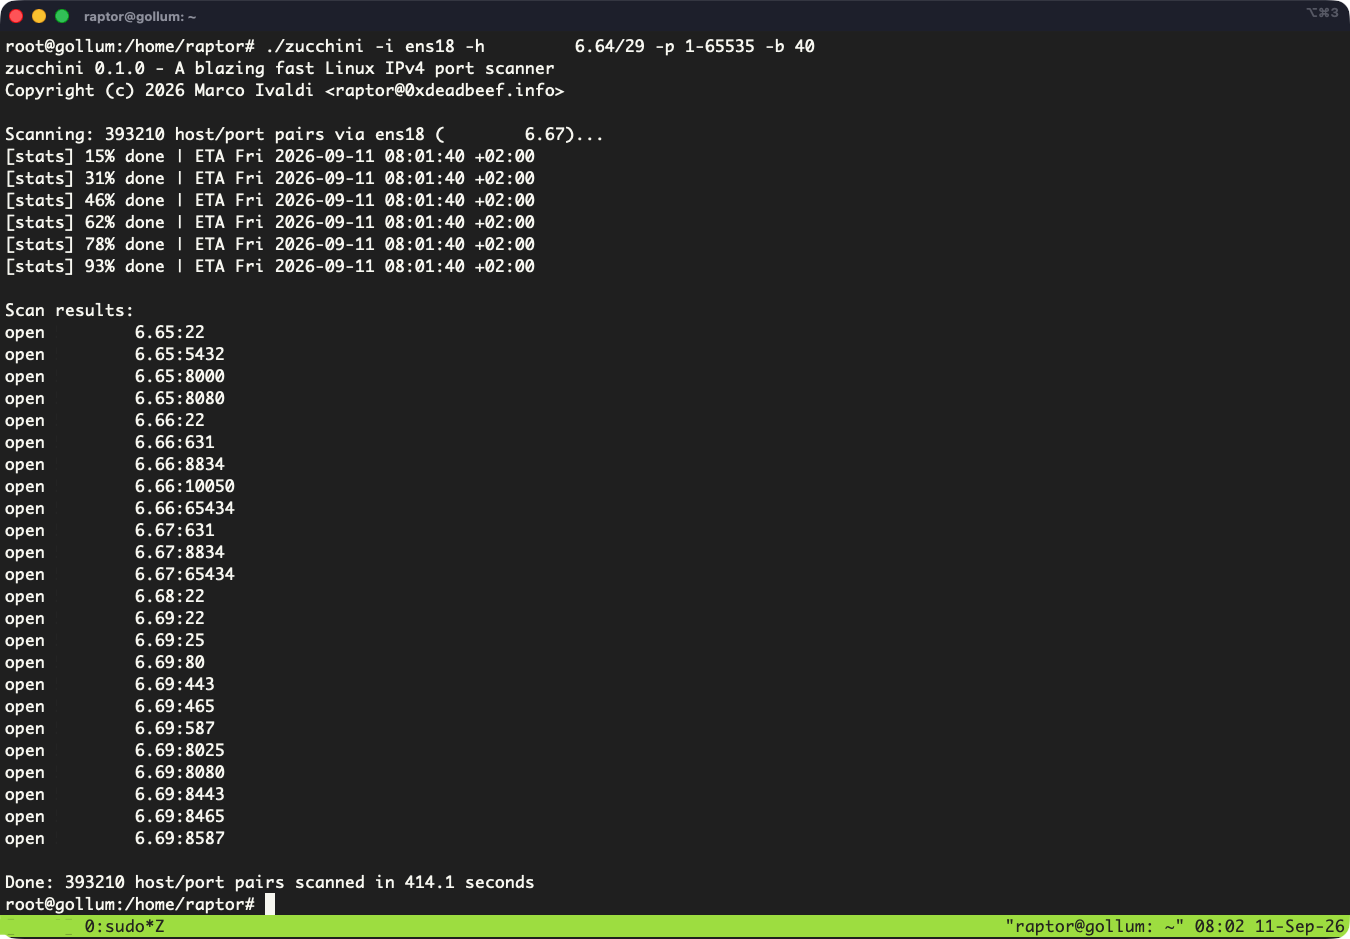
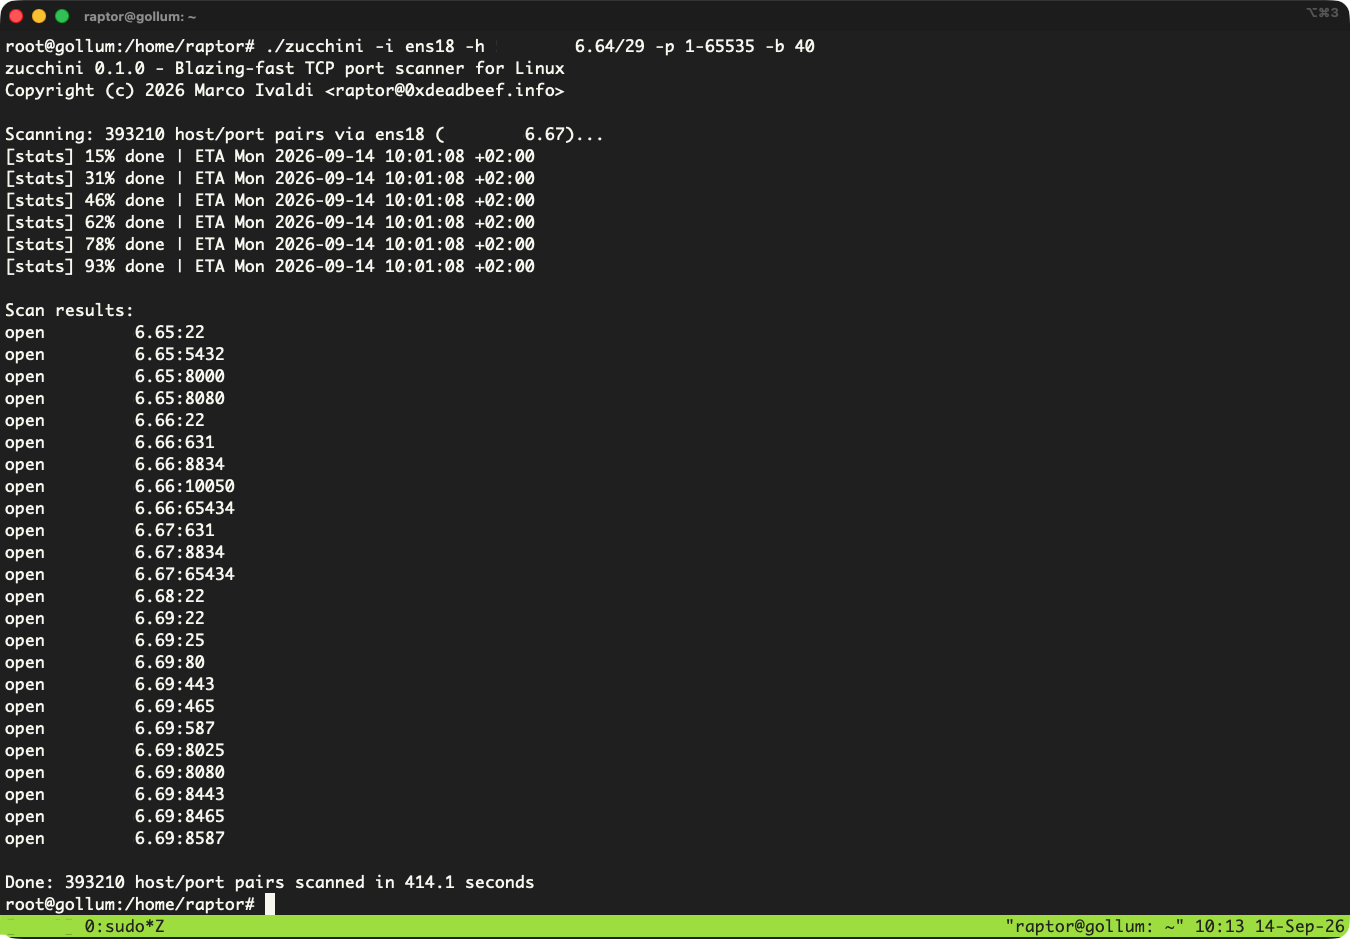
doc: update screenshot and improve readme

diff --git a/README.md b/README.md
@@ -137,11 +137,9 @@ The scanner is intentionally Linux-only. The release build and test suite have b
 
 ## Credits
 
-This project is a Rust port and modernization of [Maurizio Agazzini 🧙♂](https://github.com/inode-)'s `singsing` library and its `zucca` SYN-scanner example.
+This project is a Rust port and modernization of [Maurizio Agazzini 🧙♂](https://github.com/inode-)'s `singsing` library and its `zucca` SYN scanner example.
 
-It belongs to the broader family of asynchronous scanners that includes [`scanrand`](https://github.com/krisnova/paketto), [`unicornscan`](https://github.com/robertelee78/unicornscan), [`zmap`](https://github.com/zmap/zmap), and [`masscan`](https://github.com/robertdavidgraham/masscan). Those projects are useful points of comparison, but this implementation is derived from `singsing`/`zucca` unless otherwise noted.
-
-- Maurizio Agazzini ([inode](https://github.com/inode-)) 🧙♂, author of the original `singsing` and `zucca`.
+It belongs to the broader family of asynchronous scanners that includes [`scanrand`](https://github.com/krisnova/paketto), [`unicornscan`](https://github.com/robertelee78/unicornscan), [`zmap`](https://github.com/zmap/zmap), and [`masscan`](https://github.com/robertdavidgraham/masscan).
 
 ## Changelog
 
